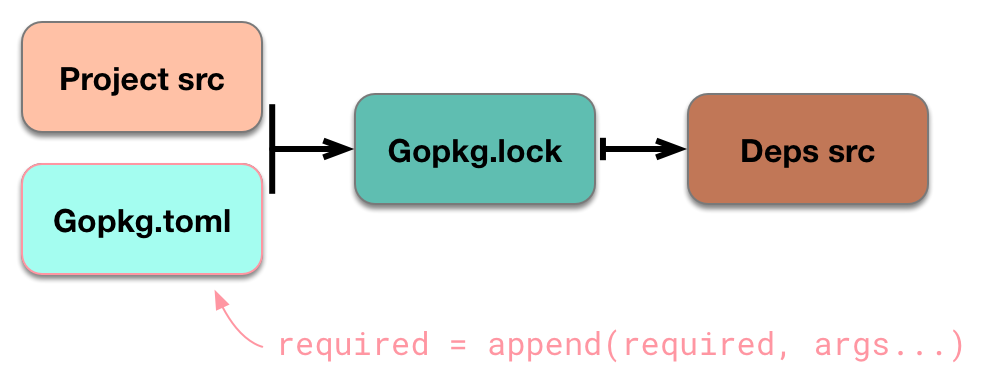
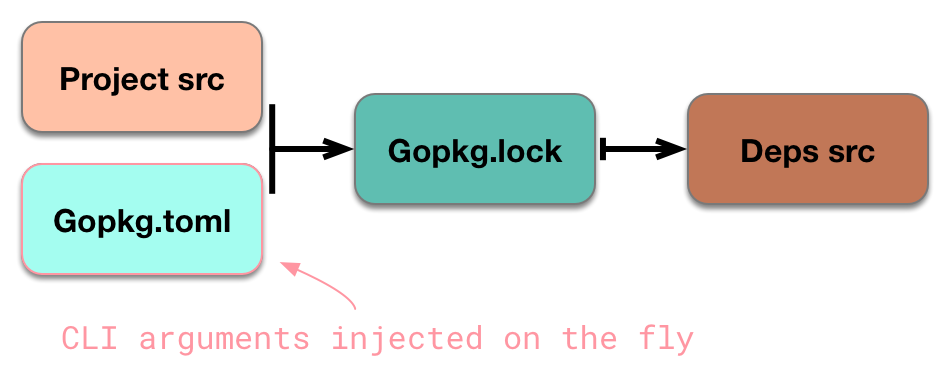
docs: Incremental checkin, mostly ensure mechanics

diff --git a/docs/day-to-day-dep.md b/docs/day-to-day-dep.md
@@ -2,25 +2,36 @@
 title: Day-to-day dep
 ---
 
-In keeping with Go's general design philosophy of minimizing knobs, dep has a sparse interface - there are only two commands you're likely to run regularly. For existing projects,  `dep ensure` is the primary workhorse command, and the only thing you'll run that actually changes disk state. `dep status` is a read-only command that can help you understand the current state of your project.
+In keeping with Go's philosophy of minimizing knobs, dep has a sparse interface: there are only two commands you're likely to run regularly. `dep ensure` is the primary workhorse command, and after the initial `dep init`, is the only thing you'll run that actually changes disk state. `dep status` is a read-only command that can help you understand the current state of your project. 
 
-Sparse interface notwithstanding, acclimating to `dep ensure` can take some practice. The verb here is "ensure", as we're asking dep to "make sure that my `Gopkg.lock` satisfies all the imports from my project and the rules in `Gopkg.toml`, and that `vendor/` contains exactly what `Gopkg.lock` says it should." In other words, dep is designed around the idea that it's fine to run `dep ensure` at most any time, and it will bring your project and its dependencies into a good state, while doing as little work as possible to achieve that guarantee (though [we're still optimizing "as little as possible"]()).
+This guide primarily centers on  `dep ensure`, as that's the command you run to effect changes on your project. The [ensure mechanics](ensure-mechanics.md) document details how the command actually works, and is worth reading if you're encountering a confusing `dep ensure` behavior (or just curious!). This guide is more of a high-level tour for folks trying to get a handle on the basics of dep.
 
-That's pretty vague, though. Let's make it clearer by exploring some concrete examples. We'll start by moving to the root of a hypothetical project, then running `dep ensure`:
+## Basics
 
-```
-$ cd $GOPATH/src/github.com/me/example
-$ dep ensure
-```
+Let's start with some semantics: the verb is "ensure" to emphasize that the action being taken is not only performing a single, discrete action (like adding a dependency), but rather enforcing a kind of broader guarantee. Expressing that guarantee In narrative terms, running `dep ensure` is like saying:
 
-If `dep ensure` exits 0, then we're guaranteed (with [one fixable caveat]()), that our project is "in sync" - `vendor/` is populated with a depgraph that satisfies all imports and rules. So, let's assume `dep ensure` exited 0, and our project is now in sync. That means we're ready to develop normally: edit `.go` files, run `go test` and `go build`, etc. We don't need to think about dep again until one of the following happens:
+> Hey dep, please make sure that my project is [in sync](glossary.md#sync): that `Gopkg.lock` satisfies all the imports in my project, and all the rules in `Gopkg.toml`, and that `vendor/` contains exactly what `Gopkg.lock` says it should."
+
+As the narrative indicates, `dep ensure` is a holistic operation; rather than offering a series of commands that you run in succession to incrementally achieve a some final state, each run of `dep ensure` delivers a complete, consistent final state with respect to the inputs of your project. You might think of this like a frog, hopping from lilypad to lilypad: `dep ensure` moves your project from one safe (transitively complete import graph, with all constraints satisfied, and a fully populated `vendor`) island to the the next, or it doesn't move at all. Barring critical, unknown bugs, there are no intermediate failure states. This makes `dep ensure` fine to run at most any time, as it will always drive towards a safe, known good state. 
+
+General guidelines for using dep:
+
+* Never directly edit anything in `vendor/`; dep will unconditionally overwrite such changes.
+* `dep ensure` is almost never the wrong thing to run; if you're not sure what's going on, running it will bring you back to safety, or fail informatively.
+
+
+
+## Using `dep ensure`
+
+There are five basic times when you'll run `dep ensure` (with and without flags):
 
 - We want to add a new dependency
 - We want to upgdate an existing dependency
 - We've imported a package for the first time, or removed the last import of a package
 - We've made a change to a rule in `Gopkg.toml`
+- We're not quite sure if one of the above has happened
 
-There's a bit of [TIMTOWTDI](https://en.wiktionary.org/wiki/TMTOWTDI) here, as it's possible, and sometimes preferable, to handle each of these cases with a plain `dep ensure`, but dep also allows some additional parameters to make some of these cases a bit more ergonomic. We'll explore each in turn.
+Let's explore each of these. To play along at home, you'll need to `cd` into a project that's already managed by dep (by `dep init` - there are separate guides for [new projects](new-project.md) and [migrations](migrating.md)).
 
 ### Adding a new dependency
 
@@ -39,67 +50,46 @@ This should succeed, resulting in an updated `Gopkg.lock` and `vendor/` director
 If you run "dep ensure" again before actually importing it, it will disappear from Gopkg.lock and vendor/.
 ```
 
-This reflects the nature of `dep ensure` - `github.com/pkg/errors` isn't in our project's imports, and as such, a subsequent `dep ensure` will classify it as unnecessary, and remove it. If we're ready to use the package, though, then this shouldn't be a problem - add an `import "github.com/pkg/errors"`  to a `.go` file, and the project's now back in sync.
+As the warning suggests, you should introduce an `import "github.com/pkg/errors"` in your code, ideally right away. If you don't, a later `dep ensure` run will interpret your newly-added dependency as unused, and automatically get rid of it.
 
-It's also possible to introduce the new dependency without relying on `-add`. If, as a first step, you add `import "github.com/pkg/errors"` to a `.go` file, then run a plain `dep ensure`, your project will be in almost the same state as with `-add`: `Gopkg.lock` and `vendor/` will include `github.com/pkg/errors`. The only difference is that  `Gopkg.toml` will not have been updated with a guess at a version constraint.
+Note that it is not _required_ to use `dep ensure -add` to add new dependencies - you can also just add an appropriate `import` statement in your code, then run `dep ensure`. This approach doesn't always play nicely with  [`goimports`](https://godoc.org/golang.org/x/tools/cmd/goimports), and also won't append a `[[constraint]]` into `Gopkg.toml`. Still, it can be useful at times, often for rapid iteration and off-the-cuff experimenting.
 
-In a sense, the plain `dep ensure` approach is more natural here, as using `-add` effectively dupes dep into violating its guarantee - `dep ensure` exits 0, but the extra dependency means our project is out of sync. However, the plain approach has a chicken-or-egg problem. Many Go developers use something like [`goimports`]() to read the contents of a `.go` file and infer what import statements to add. `goimports`, in turn, works by searching vendor and GOPATH for packages that match the identifiers in a file - which requires that those packages already be present locally.
-
-**Both approaches can be useful in different situations. If you're genuinely experimenting with permanently adding a new dependency to your project, then `dep ensure -add` is probably best: you'll probably want that constraint **
+The [ensure mechanics section on `-add`](ensure-mechanics.md#add) has more detail on internals, as well as some subtle variations in `dep ensure -add`'s behavior.
 
 ### Updating dependencies
 
-First, a quick definition: in dep's world, updating a dependency is the act of changing the value of the `revision` field in `Gopkg.lock` for that project (and, by extension, the version in the `vendor` directory). There are two basic ways of achieving this:
-
-* Run `dep ensure -update <dependency/root/import/path>`; this will update the project to the latest version allowed by the version constraints in `Gopkg.toml`.
-* Edit `Gopkg.toml`, changing the version constraint to one that does not allow the version currently in `Gopkg.lock`, then run `dep ensure`.
-
-The CLI-driven approach is strongly preferred to hand-editing `Gopkg.toml`. Let's look at that first.
-
-#### CLI-driven updates
-
-`dep ensure -update` can be used to update multiple dependencies at once:
+Ideally, updating a dependency to a newer version is a single command:
 
 ```
-$ dep ensure -update github.com/foo/bar github.com/baz/quux
+$ dep ensure -update github.com/foo/bar
 ```
 
-Or all dependencies (not recommended):
+This also works without arguments to try to update all dependencies, though it's generally not recommended:
 
 ```
-dep ensure -update
+$ dep ensure -update
 ```
 
-The CLI-driven approach is preferred because it is much more convenient, less expressive (read: safer), and better for the Go packaging ecosystem. However, it doesn't always work, as the semantics of `-update` are dependent on the constraint declared in `Gopkg.toml`:
+The behavior of `dep ensure -update` is heavily dependent on [the type of constraints in use](ensure-mechanics.md#update-and-constraint-types). For semver range and branch cases, the above CLI-driven approach works. For other types - non-semver releases and revisions (e.g. git hashes) - the only option to achieve an analogous "update" is to manually update `Gopkg.toml` with a new constraints, then run `dep ensure`.
 
-* If `version` is specified with a semantic version range, then `dep ensure -update` will try to get the latest version in that range.
-* If `branch` is specified, `dep ensure -update` will try to move to the latest tip of the named branch.
-* If `version` is specified with a non-semantic version, or with a non-range (e.g., `version = "=v1.0.0"`), `dep ensure -update` will only make changes if the release moved (e.g., someone did a `git push --force`).
-* If a `revision` is specified, `dep ensure -update` cannot make any changes.
-* If no constraint is specified (typically not recommended), `dep ensure -update` will try versions in [the upgrade sort order](https://godoc.org/github.com/golang/dep/gps#SortForUpgrade).
+### Adding and removing package imports
 
-There's a fair bit of nuance to the options here, which is explored in greater detail in [Zen of Constraints and Locks](). But only the first and second kinds of constraints are especially useful with `dep ensure -update`. And that's only partially under your control - if the dependency you're working with hasn't made any semver releases, then you can't use semver ranges. 
+As described in the 
 
-#### Manual updates
+### Rule changes in `Gopkg.toml`
 
-If using semver ranges or branches isn't an option for a particular dependency, you'll have to rely instead on hand-editing `Gopkg.toml` with the exact version you want, then running `dep ensure`.
+`Gopkg.toml` files contain five basic types of rules. The  [`Gopkg.toml` docs](#gopkg.toml.md) explain them in detail, but here's an overview:
 
-Given that the version constraints given in `Gopkg.toml` determine the behavior of `dep ensure -update`, hand-editing the constraints necessarily allows a superset of the changes to `Gopkg.lock` allowed by `dep ensure -update`. Really, these sorts of manual edits can be considered "updates" only in the loosest sense; they could just as easily be downgrades, or a change of the constraint type (e.g. from `version` to `branch`) that is not neatly classifiable as "up" or "down."
+* `required`, which are mostly equivalent to import statements in code, except it's OK to include a `main` package
+* `ignored`, which causes dep to black hole an import path (and any imports it uniquely introduces)
+* `[[constraint]]`, stanzas that express version constraints and some other rules on a per-project dependency basis
+* `[[override]]`, stanzas identical to `[[constraint]]` except that only the current project can express them and they supersede `[[constraint]]` in both the current project and dependencies
+* `[prune]`, global and per-project rules that govern what kinds of files should be removed from `vendor/`
 
-Note that these approaches are not mutually exclusive. If, for example, you initially constrain a project to `version = "^1.1.0"`, then later run `dep ensure -update` bringing it to `v1.2.0` in `Gopkg.lock` and start using new features introduced in `v1.2.0` in your code, then it's important to update the bottom of the constraint range: `version = "^1.2.0"`.
+Changes to any one of these rules will likely necessitate changes in `Gopkg.lock` and `vendor/`; a single successful `dep ensure` run will effect all such changes at once, bringing your project back in sync.
 
+### Or, just, any time
 
-
- hand-edit `Gopkg.toml`  update the range are also times when you'll need to 
-
-
-
-
-
-but it may not be possible to use. Whether it's possible is a combination of what releases the dependency has published, and what kind of constraint you've chosen to 
-
-
-
-The first approach is simultaneously more convenient and less expressive than the second,  
+So, you're humming along, working on a project, and 
 
 

diff --git a/docs/ensure-mechanics.md b/docs/ensure-mechanics.md
@@ -4,8 +4,6 @@ title: dep ensure mechanics
 
 As `dep ensure` is dep's sole state-mutating command, its mechanics are essentially the mechanics of dep as a whole.
 
-
-
 ## Functional flow
 
 Dep's operation centers around the idea of the "four state system" - a model for organizing the on-disk state a package manager deals with, originally articulated in [this (very long) article](https://medium.com/@sdboyer/so-you-want-to-write-a-package-manager-4ae9c17d9527). Those states are:
@@ -51,6 +49,16 @@ It is one of dep's foundational design goals that both of its functions do as li
 * The vendoring function hashes each discrete project already in `vendor/` to see if the code present on disk is what `Gopkg.lock` indicates it should be. Only projects that deviate from expectations are written out.
   * WIP: the hashing check is generally referred to as "vendor verification," and [is not yet complete](https://github.com/golang/dep/issues/121). Without this verification, dep is blind to whether code in `vendor/` is correct or not; as such, dep must defensively re-write all projects to ensure the state of `vendor/` is correct.
 
+## Sync
+
+It's easy to think about 
+
+
+
+## Imports, and the package tree
+
+
+
 ## Flags and behavior variations
 
 Each of `dep ensure`'s various flags affects the behavior of these functions - or even whether they run at all. 
@@ -67,28 +75,53 @@ Passing `-no-vendor` has the additional effect of causing the solving function t
 
 ## `-add`
 
-The general purpose of `dep ensure -add`  is to facilitate the introduction of new dependencies into the depgraph. There are two parts to this:
+The general purpose of `dep ensure -add`  is to facilitate the introduction of new dependencies into the depgraph. Whereas `-update` is restricted to [source roots](glossary.md#source-root), (e.g. `github.com/foo/bar`), `-add` can take any package import path as an argument (e.g. `github.com/foo/bar` OR `github.com/foo/bar/baz`).
 
-1. Running the solving function in order to generate a new `Gopkg.lock`  with the new dependency
-2. If no version constraint is already set in `Gopkg.toml` for a named dependency, then inferring appropriate version constraint(s) and appending them into `Gopkg.toml`
+Conceptually, there are two possible things that `-add` might be introducing. Any `dep ensure -add` run will do at least one of these:
 
-In keeping with these output goals, if `Gopkg.lock` and `Gopkg.toml` both contain entries for the provided arguments, then there is no work to be done, and `dep ensure -add` will abort early with an error.
+1. Running the solving function in order to generate a new `Gopkg.lock`  with the new dependenc(ies)
+2. Appending a version constraint into `Gopkg.toml`
 
-However, this is complicated a bit by the fact that `dep ensure -add` takes _package_ import paths, rather than only _project root_ import paths. This design is intended to allow the user to add additional subpackages from a dependency that they already include. Thus, the check made against the existing `Gopkg.lock` is actually a two-step check: 1) is there a `[[project]]` entry for the project root of the argument, and 2) does the argument appear in the `packages` list within that dependency's stanza.
+This implies two preconditions for `dep ensure -add`, at least one of which must be met:
 
-As long as there is at least one package/project not present in `Gopkg.lock`, thus necessitating a solve, then the mechanism by which `dep ensure -add` achieves its goal is to perform an in-memory-only modification of the `required` list it reads out of `Gopkg.toml` and passes to the solving function:
+1. The named import path is not currently in the project's import statements, or in `Gopkg.toml`'s `required` list
+2. There is no `[[constraint]]` stanza in `Gopkg.toml` for the project root corresponding to the named import path
+
+
+It is also possible to explicitly specify a version constraint:
+
+```
+$ dep ensure -add github.com/foo/bar@v1.0.0
+```
+
+When no version constraint is included in the argument, the solving function will select the latest version that works (generally, the newest semver release, or the default branch if there are no semver releases). Either this inferred version, or the specified version, will be appended into `Gopkg.toml`.
+
+The behavioral variations that arise from the assorted differences in input and current project state are best expressed as a matrix: 
+
+| Argument to `dep ensure -add` | Has `[[constraint]]` stanza in `Gopkg.toml` | In imports or `required` | Result                                   |
+| ----------------------------- | ---------------------------------------- | ------------------------ | ---------------------------------------- |
+| `github.com/foo/bar`          | N                                        | N                        | Added temporarily to `Gopkg.lock` & `vendor/`; inferred version constraint appended to `Gopkg.toml` |
+| `github.com/foo/bar@v1.0.0`   | N                                        | N                        | Added temporarily to `Gopkg.lock` & `vendor/`; specified version constraint appended to `Gopkg.toml` |
+| `github.com/foo/bar`          | Y                                        | N                        | Added temporarily to `Gopkg.lock` & `vendor/` |
+| `github.com/foo/bar@v1.0.0`   | Y                                        | -                        | **Immediate error**: constraint already present in `Gopkg.toml` |
+| `github.com/foo/bar`          | N                                        | Y                        | Infer version constraint from `Gopkg.lock` and add to `Gopkg.toml` |
+| `github.com/foo/bar`          | Y                                        | Y                        | **Immediate error:** nothing to do       |
+
+For any of the paths where `dep ensure -add` needs to run the solving function in order to generate an updated `Gopkg.lock`, the relevant information from CLI arguments is applied to the in-memory representation of `Gopkg.toml`:
 
 ![Model modifications made by -add](img/required-arrows.png)
 
-Because this modification of `required` is ephemeral, a successful `dep ensure -add` run of this type will result in an on-disk state which is immediately out of sync with the current project. If this is the case, it will warn the user accordingly:
+Import path arguments that need to be added are injected via the `required` list, and if an explicit version requirement was specified, the equivalent of a `[[constraint]]` is created. 
+
+Though these rules may ultimately be persisted if solving succeeds, they are ephemeral at least until solving succeeds. And, from the solver's perspective, the ephemeral rules are indistinguishable from rules sourced directly from disk. Thus, to the solver, `dep ensure -add foo@v1.0.0` is identical to modifying `Gopkg.toml` by adding `"foo"` to the `required` list, plus a `[[constraint]]` stanza with `version = "v1.0.0"`, then running `dep ensure`.
+
+However, because these modifications are ephemeral, a successful `dep ensure -add` may actually push the project out of sync. Constraint modifications generally do not, but if the `required` list is modified, then the project will desync. The user is warned accordingly:
 
 ```
 $ dep ensure -add github.com/foo/bar
 "github.com/foo/bar" is not imported by your project, and has been temporarily added to Gopkg.lock and vendor/.
 If you run "dep ensure" again before actually importing it, it will disappear from Gopkg.lock and vendor/.
 ```
-
-
 
 ## `-update`
 
@@ -160,15 +193,15 @@ All versions in the version queue keep track of an underlying revision, which me
 
 Thus, even if an upstream tag is force-pushed in one of your project's dependences, dep will retain the original revision until you explicitly allow it to change via a `dep ensure -update`.
 
-The bottom line here is that `-update`'s behavior is governed by the type of constraints specified:
+The key takeaway here is that `-update`'s behavior is governed by the type of constraints specified:
 
-| `Gopkg.toml` constraint type | Constraint example | `dep ensure -update` behavior            |
-| ---------------------------- | ------------------ | ---------------------------------------- |
-| `version` (semver range)     | `"^1.0.0"`         | Tries to get the latest version allowed by the range |
-| `branch`                     | `"master"`         | Tries to move to the current tip of the named branch |
-| `version` (non-range semver) | `"=1.0.0"`         | Change can only occur if the upstream release was moved |
-| `version` (non-semver)       | `"foo"`            | Change can only occur if the upstream release was moved |
-| `revision`                   | `aabbccd...`       | No change is possible                    |
-| (none)                       |                    | The first version that works, according to [the sort order](https://godoc.org/github.com/golang/dep/gps#SortForUpgrade) (not recommended) |
+| `Gopkg.toml` version constraint type | Constraint example | `dep ensure -update` behavior            |
+| ------------------------------------ | ------------------ | ---------------------------------------- |
+| `version` (semver range)             | `"^1.0.0"`         | Tries to get the latest version allowed by the range |
+| `branch`                             | `"master"`         | Tries to move to the current tip of the named branch |
+| `version` (non-range semver)         | `"=1.0.0"`         | Change can only occur if the upstream release was moved |
+| `version` (non-semver)               | `"foo"`            | Change can only occur if the upstream release was moved |
+| `revision`                           | `aabbccd...`       | No change is possible                    |
+| (none)                               | (none)             | The first version that works, according to [the sort order](https://godoc.org/github.com/golang/dep/gps#SortForUpgrade) (not recommended) |
 
 

diff --git a/docs/migrating.md b/docs/migrating.md
@@ -46,7 +46,7 @@ Once dep has compiled its set of inferences, it proceeds to solving.
 
 ### The Solving Phase
 
-Once the inference phase is completed, the set of rules and hints dep has assembled will be passed to its [solver]() to work out a transitively complete depgraph, which will ultimately be recorded as the `Gopkg.lock`. This is the same solving process used by `dep ensure`, and completing it successfully means that dep has found a combination of dependency versions that respects all inferred rules, and as many inferred hints as possible. If solving succeeds, then the hard work is done; most of what remains is writing out `Gopkg.toml`, `Gopkg.lock`, and `vendor/`. 
+Once the inference phase is completed, the set of rules and hints dep has assembled will be passed to its [solver](solver.md) to work out a transitively complete depgraph, which will ultimately be recorded as the `Gopkg.lock`. This is the same solving process used by `dep ensure`, and completing it successfully means that dep has found a combination of dependency versions that respects all inferred rules, and as many inferred hints as possible. If solving succeeds, then the hard work is done; most of what remains is writing out `Gopkg.toml`, `Gopkg.lock`, and `vendor/`. 
 
 The solver returns a solution, which itself is just [a representation](https://godoc.org/github.com/golang/dep/gps#Solution) of [the data stored in a `Gopkg.lock`](https://godoc.org/github.com/golang/dep#Lock): a transitively-complete, reproducible snapshot of the entire dependency graph. Writing out the `Gopkg.lock` from a solution is little more than a copy-and-encode operation, and writing `vendor/` is a matter of placing each project listed in the solution into its appropriate place, at the designated revision. This is exactly the same as `dep ensure`'s behavior.
 
@@ -104,7 +104,7 @@ _Note: all three of the other hard failure types can sometimes be reported as th
 
 Because the solver, and all its possible failures, are the same for `dep init` as for `dep ensure`, there's a separate section for understanding and dealing with them: [dealing with solving failures](). It can be trickier with `dep init`, however, as many remediations require tweaking `Gopkg.toml`.
 
-Unfortunately, `dep init` does not write out a partial `Gopkg.toml` when it fails ([though we are working on this](https://github.com/golang/dep/issues/909)), so if the particular errors you are encountering do entail such tweaks, you may need to skip `dep init` entirely, create an empty `Gopkg.toml`, and populate it with rules by hand; the [`Gopkg.toml` reference documentation]() explains the various properties. Before resorting to that, make sure you've run `dep init` with various combinations of the inferencing flags (`-skip-tools` and `-gopath`) to see if they can at least give you something to start from.
+Unfortunately, `dep init` does not write out a partial `Gopkg.toml` when it fails ([though we are working on this](https://github.com/golang/dep/issues/909)), so if the particular errors you are encountering do entail such tweaks, you may need to skip `dep init` entirely, create an empty `Gopkg.toml`, and populate it with rules by hand; the [`Gopkg.toml` reference documentation](#gopkg.toml.md) explains the various properties. Before resorting to that, make sure you've run `dep init` with various combinations of the inferencing flags (`-skip-tools` and `-gopath`) to see if they can at least give you something to start from.
 
 ### Soft failures
 
@@ -114,8 +114,7 @@ If you do encounter problems like this, `dep status` is your first diagnostic st
 
 Once you've identified the problematic dependenc(ies), the next step is exerting appropriate controls over them via `Gopkg.toml`. (Note - this advice is intentionally terse; look at [Zen of Constraints and Locks]() if you want a deeper understanding of how to optimally utilize dep's controls)
 
-* For each of the following items, assume that you should run `dep ensure` after making the suggested change. If that fails, consult [dealing with solving failures]().
-
+For each of the following items, assume that you should run `dep ensure` after making the suggested change. If that fails, consult [dealing with solving failures]().
 
 * If the wrong `[[constraint]]` was inferred for one of your direct dependencies, change it. Then, file an issue against dep, please - while `dep init` may choose to omit a constraint, converting one incorrectly is considered a bug.
 * If one of your transitive dependencies is at the wrong version, define an `[[override]]` on it to force it to the version you need.

diff --git a/docs/glossary.md b/docs/glossary.md
@@ -35,7 +35,7 @@ Also called the "root project."
 
 ## Deduction
 
-Deduction is the process of determining a source root from an import path. See the reference on [import path deduction]() for specifics.
+Deduction is the process of determining a source root from an import path. See the reference on [import path deduction](deduction.md) for specifics.
 
 ## Direct Dependency
 
